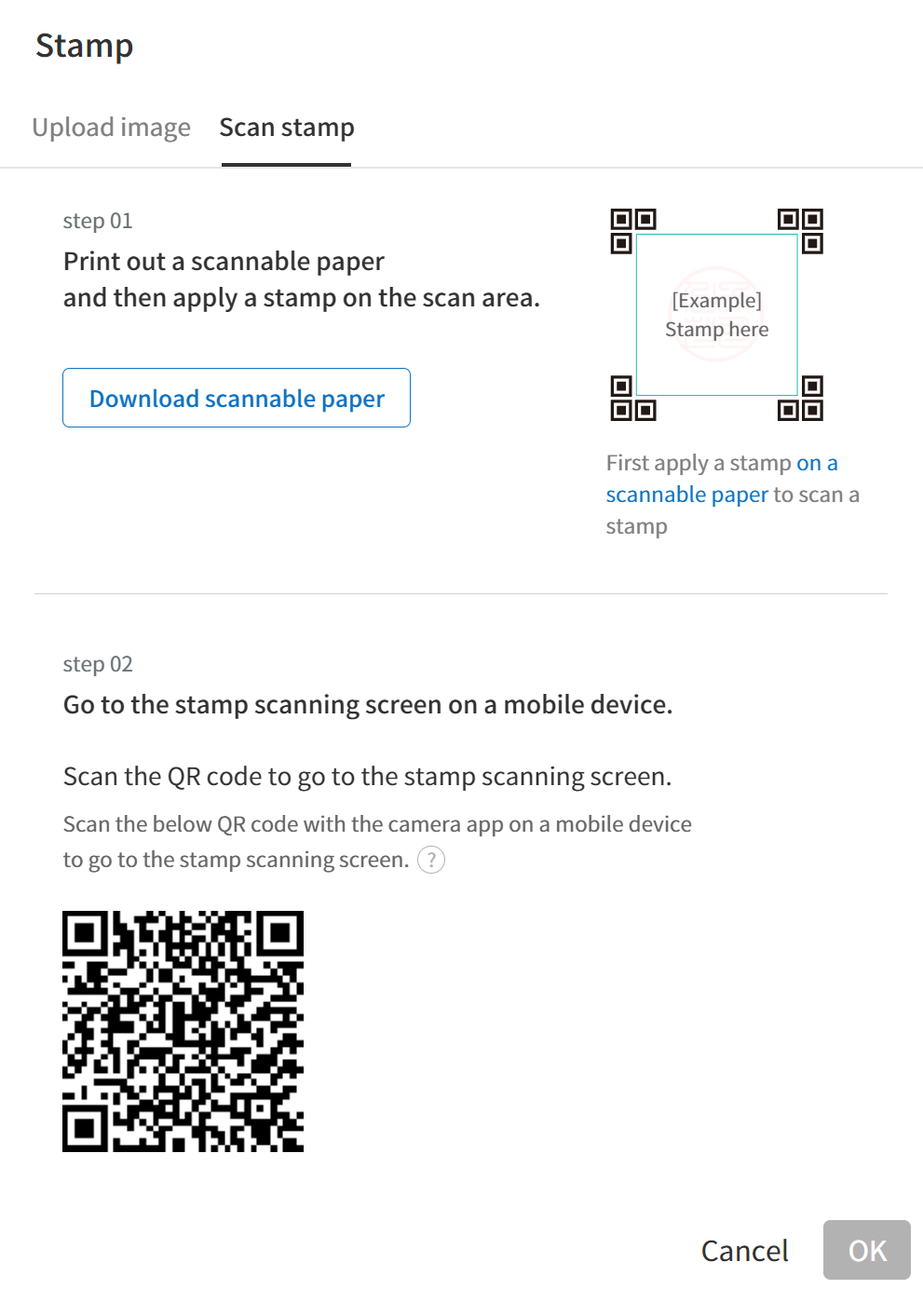
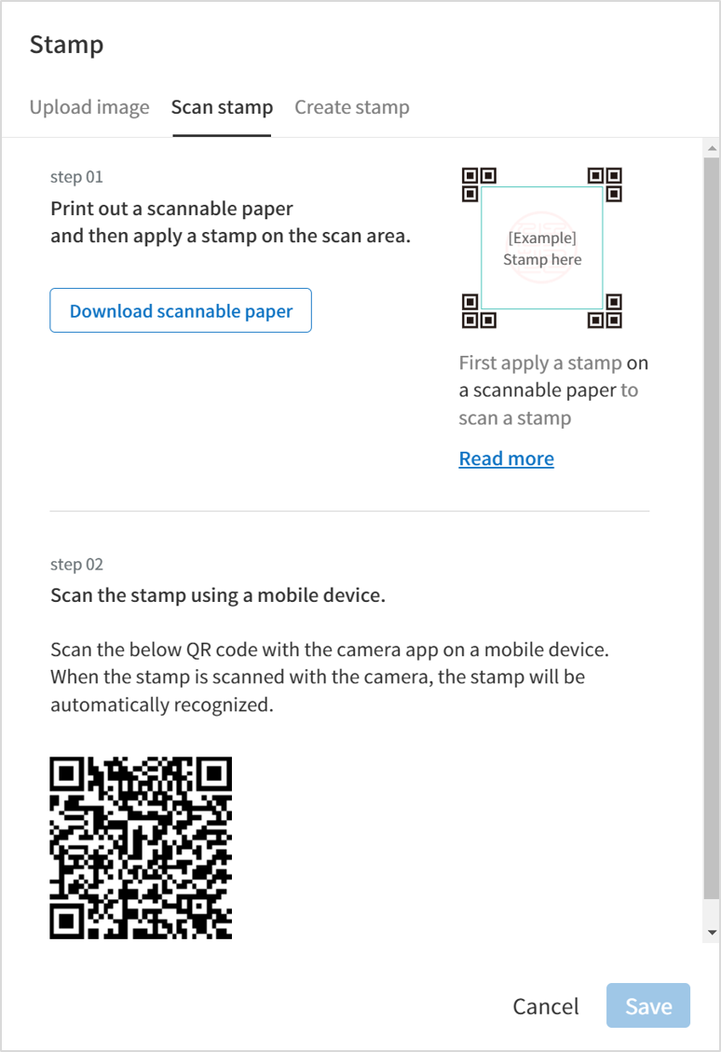
Jan 2024 update

diff --git a/docs/help/chapter8.html b/docs/help/chapter8.html
@@ -118,13 +118,13 @@
 <li><p><strong>Shared:</strong> If you share documents you own with other members or have access to a shared inbox, you can view the shared documents at-a-glance.</p></li>
 </ul>
 <hr class="docutils" />
+<p><strong>Manage documents</strong> and <strong>Manage bulk sent documents</strong>: These are inboxes for document managers and they can view documents in which they have permission.</p>
+<div class="admonition note">
+<p class="admonition-title">Note</p>
+<p>For information on granting the document manager permission refer to the <a class="reference external" href="chapter2.html#document-manager">Document manager</a> section. Note that the company administrawtor can view and manage all documents in the company.</p>
+</div>
 <ul class="simple">
-<li><p><strong>Manage documents</strong> and <strong>Manage bulk sent documents</strong>: These are inboxes for document managers and they can view documents in which they have permission.</p></li>
-</ul>
-<blockquote>
-<div><p><strong>Manage documents:</strong> Only members with the document manager permission can access this inbox. They can view all documents created from templates in which they are given permission to view.</p>
-</div></blockquote>
-<ul class="simple">
+<li><p><strong>Manage documents:</strong> Only members with the document manager permission can access this inbox. They can view all documents created from templates in which they are given permission to view.</p></li>
 <li><p><strong>Manage bulk sent documents:</strong> Only members with the document manager permission can access this inbox. They can view all documents bulk created from templates in which they are given permission to view.</p></li>
 </ul>
 <figure class="align-default">
@@ -133,7 +133,14 @@
 </section>
 <section id="documents-menu">
 <h2>Documents menu<a class="headerlink" href="#documents-menu" title="Link to this heading"></a></h2>
+<div class="admonition note">
+<p class="admonition-title">Note</p>
+<p>While the screen layout for the <strong>Action required, In progress, and Completed inboxes</strong> and the <strong>Manage documents</strong> page are almost identical, there are differences in the documents you see based on the document status or the permissions you have.</p>
+</div>
 <p>Each documents menu consists of the following five sections:</p>
+<figure class="align-default">
+<a class="reference internal image-reference" href="../_images/document_inbox_layout.png"><img alt="Document inbox layout" src="../_images/document_inbox_layout.png" style="width: 700px;" /></a>
+</figure>
 <ol class="arabic">
 <li><p><strong>Menu and home icon, and document menu name</strong></p>
 <p>You can go to another menu by clicking the menu icon (<a class="reference internal" href="../_images/menu_icon_2.png"><img alt="image1" src="../_images/menu_icon_2.png" style="width: 25px;" /></a>) or go to the dashboard by clicking the home icon (<a class="reference internal" href="../_images/home_icon_2.png"><img alt="image2" src="../_images/home_icon_2.png" style="width: 25px;" /></a>). You can also see the name of the documents menu you are currently viewing.</p>
@@ -144,7 +151,7 @@
 </li>
 <li><p><strong>Document list and actions</strong></p>
 <p>Up to 20 documents are listed per page and you can view the documents in other pages by clicking the page numbers at the bottom.</p>
-<p>The information of each document such as the document status, name, step, creator, created date, and document number is provided in columns in the document list. You can also change the column information displayed. Click the column icon (<a class="reference internal" href="../_images/column_icon.png"><img alt="image3" src="../_images/column_icon.png" style="width: 35px;" /></a>) displayed at the top right corner of the page, and then check the columns you want to display in the column check box.</p>
+<p>The information of each document such as the document status, name, step, creator, created date, and document number is provided in columns in the document list. You can also change the column information displayed. Click the column icon (<a class="reference internal" href="../_images/column_icon1.png"><img alt="image4" src="../_images/column_icon1.png" style="width: 35px;" /></a>) displayed at the top right corner of the page, and then check the columns you want to display in the column check box.</p>
 <p>You can also perform actions on a document such as reviewing, previewing, correcting, voiding, resending, and deleting a document.</p>
 </li>
 <li><p><strong>Document status and history</strong></p>
@@ -152,15 +159,18 @@
 <p>In the <strong>Document status</strong> tab, you can see what happens to a document in each step of the workflow.</p>
 <p>In the <strong>History</strong> tab, you can see the activities of the document creator and recipients from document creation to completion.</p>
 </li>
-<li><p><strong>The column selection icon, document download icon, and delete icon</strong></p>
-<p>Clicking the column selection icon (<a class="reference internal" href="../_images/column_icon.png"><img alt="image4" src="../_images/column_icon.png" style="width: 35px;" /></a>) displays the column types which you can check to select which columns will be displayed in the document list.</p>
-<p>Clicking the download icon (<a class="reference internal" href="../_images/download-icon.PNG"><img alt="image5" src="../_images/download-icon.PNG" style="width: 30px;" /></a>) allows to select the documents in the list you want to download. You can select multiple documents
-to download at once and choose the file type including the PDF of the completed documents, audit certificate, and CSV of selected fields.</p>
-<p>Note that the delete icon (<a class="reference internal" href="../_images/delete_icon1.png"><img alt="image6" src="../_images/delete_icon1.png" style="width: 30px;" /></a>) is disabled in the three document menus, but is enabled in the <strong>Manage documents</strong> menu.</p>
+<li><p><strong>The share, column, download, and delete icons</strong></p>
+<ul class="simple">
+<li><p>Share (<a class="reference internal" href="../_images/share_icon.png"><img alt="image20" src="../_images/share_icon.png" style="width: 25px;" /></a>): Clicking the share icon allows you to select a document you want to share in a shared folder.</p></li>
+<li><p>Column (<a class="reference internal" href="../_images/column_icon1.png"><img alt="image21" src="../_images/column_icon1.png" style="width: 35px;" /></a>): Clicking the column icon allows you to view the column types and select the columns in the document list that you want to be displayed.</p></li>
+<li><p>Download (<a class="reference internal" href="../_images/download_icon1.png"><img alt="image22" src="../_images/download_icon1.png" style="width: 90px;" /></a>): Clicking the icons allows you to download documents in PDF or CSV format and view the list of CSV files that have been generated.</p></li>
+</ul>
 <div class="admonition note">
 <p class="admonition-title">Note</p>
 <p><strong>How to delete documents</strong></p>
-<p>Documents can be deleted only in the <strong>Manage documents</strong> menu and you can only delete documents in which you have document manager permission. The company administrator or the template managers of a template can grant you document manager permission for all documents created from a template in <strong>Manage templates &gt; Template settings &gt; Set permissions &gt; Document management</strong> and selecting the groups/members you want to grant permission. Document manager permission can be set for each template. Members with this permission can open, delete, and download the documents (PDF, CSV) created from this template in the <strong>Manage documents</strong> menu.</p>
+<p>In document inboxes, the delete icon is disabled.</p>
+<p>Documents can be deleted only in the <strong>Manage documents</strong> menu and you can only delete documents in which you have document manager permission. The company administrator or the template managers of a template can grant you document manager permission for all documents created from a template in <strong>Manage templates &gt; Template settings &gt; Set permissions &gt; Document management</strong> and selecting the groups/members you want to grant permission.</p>
+<p>The document manager permission can be set for each template. Members with this permission can open, delete, and download the documents (PDF, CSV) created from this template in the <strong>Manage documents</strong> menu.</p>
 </div>
 </li>
 </ol>
@@ -431,7 +441,7 @@ values entered. E.g. Field name: fruit / Field type: keyword / Value1: strawberr
 <section id="export-to-csv-file">
 <h4>Export to CSV file<a class="headerlink" href="#export-to-csv-file" title="Link to this heading"></a></h4>
 <ol class="arabic">
-<li><p>Click the Export to CSV file icon (<a class="reference internal" href="../_images/column_icon.png"><img alt="image14" src="../_images/column_icon.png" style="width: 35px;" /></a>) in the <strong>Completed</strong> inbox or the <strong>Manage documents</strong> page.</p></li>
+<li><p>Click the Export to CSV file icon (<a class="reference internal" href="../_images/csv_download_icon.png"><img alt="image14" src="../_images/csv_download_icon.png" style="width: 25px;" /></a>) in the <strong>Completed</strong> inbox or the <strong>Manage documents</strong> page.</p></li>
 <li><p>Tick the check box to the left of the document(s) you want to download.</p></li>
 <li><p>Click the <strong>Export to CSV file</strong> button.</p></li>
 <li><p>Select the columns and range in the <strong>Export to CSV file</strong> pop-up displayed. To include all fields in all templates, select <strong>All results</strong>.</p></li>
@@ -485,7 +495,7 @@ You can cancel while the file is being created and the files that are created ca
 </section>
 <section id="document-menu-column-selection">
 <span id="document-column"></span><h3>Document Menu Column Selection<a class="headerlink" href="#document-menu-column-selection" title="Link to this heading"></a></h3>
-<p>If you click the column (<a class="reference internal" href="../_images/column_icon.png"><img alt="image14" src="../_images/column_icon.png" style="width: 35px;" /></a>) icon on the right side of the document list, you can select which column to be displayed on the list.</p>
+<p>If you click the column (<a class="reference internal" href="../_images/csv_download_icon.png"><img alt="image14" src="../_images/csv_download_icon.png" style="width: 25px;" /></a>) icon on the right side of the document list, you can select which column to be displayed on the list.</p>
 <figure class="align-default">
 <a class="reference internal image-reference" href="../_images/column_type.png"><img alt="Document column selection icon" src="../_images/column_type.png" style="width: 400px;" /></a>
 </figure>

diff --git a/docs/help/chapter2.html b/docs/help/chapter2.html
@@ -738,7 +738,7 @@ Select a mobile device you want to connect to and click the <strong>Send</strong
 <div class="admonition tip">
 <p class="admonition-title">Tip</p>
 <p>You can select the signature types that can be used when signing on documents.</p>
-<p>Go to <strong>Manage company</strong> &gt; <strong>Signature settings</strong> to select the signature types (Draw, Text) that can be used when signing on documents.</p>
+<p>In <strong>Manage company</strong> &gt; <strong>Signature settings</strong>, you can disable or enable the signing methods (such as signing with text and create stamp) that can be used when signing a signature or stamp.</p>
 <figure class="align-default">
 <a class="reference internal image-reference" href="../_images/signature-method.png"><img alt="Signature type settings" src="../_images/signature-method.png" style="width: 400px;" /></a>
 </figure>
@@ -746,7 +746,13 @@ Select a mobile device you want to connect to and click the <strong>Send</strong
 </section>
 <section id="adding-your-stamp">
 <span id="registerstamp"></span><h3><strong>Adding your stamp</strong><a class="headerlink" href="#adding-your-stamp" title="Link to this heading"></a></h3>
-<p>Some documents may require a seal or stamp rather than a signature or initial. In eformsign, there are three ways to add a stamp: creating a stgamp, uploading an image, and scanning a stamp.</p>
+<p>Some documents may require a seal or stamp rather than a signature or initial. In eformsign, there are three ways to add a stamp: creating a stamp, uploading an image, and scanning a stamp.</p>
+<div class="admonition important">
+<p class="admonition-title">Important</p>
+<p><strong>❗The stamps in My signature are not the same as company stamps.</strong></p>
+<p>For official stamps such as corporate seals, use them by adding them as company stamps.</p>
+<p>Once you adding one as a company stamp, you can grant permissions to members/groups, and can view its usage history.</p>
+</div>
 <section id="creating-a-stamp">
 <h4><strong>Creating a stamp</strong><a class="headerlink" href="#creating-a-stamp" title="Link to this heading"></a></h4>
 <ol class="arabic">
@@ -763,6 +769,14 @@ Select a mobile device you want to connect to and click the <strong>Send</strong
 </li>
 <li><p>Click the <strong>Edit</strong> or <strong>Delete</strong> button to edit or delete the added stamp.</p></li>
 </ol>
+<div class="admonition tip">
+<p class="admonition-title">Tip</p>
+<p><strong>Disabling the create stamp feature</strong></p>
+<p>To disable the <strong>Create stamp</strong> feature when applying a stamp in the signature field, disable the feature in <strong>Manage company &gt; Signature settings</strong>.</p>
+<figure class="align-default">
+<a class="reference internal image-reference" href="../_images/signature-method-createstamp.png"><img alt="Signature setings screen" src="../_images/signature-method-createstamp.png" style="width: 700px;" /></a>
+</figure>
+</div>
 </section>
 <section id="uploading-an-image">
 <h4><strong>Uploading an image</strong><a class="headerlink" href="#uploading-an-image" title="Link to this heading"></a></h4>
@@ -821,9 +835,9 @@ Select a mobile device you want to connect to and click the <strong>Send</strong
 <li><p><strong>Scanning a stamp on a mobile device</strong></p></li>
 </ul>
 <ol class="arabic">
-<li><p>Go to the <strong>My signature</strong> age -&gt; touch the <strong>Register</strong> button under <strong>Stamp</strong>-&gt; touch the <strong>Scan stamp</strong> tab on the pop-up displayed.</p>
+<li><p>Go to the <strong>My signature</strong> page -&gt; touch the <strong>Register</strong> button under <strong>Stamp</strong>-&gt; touch the <strong>Scan stamp</strong> tab on the pop-up displayed.</p>
 <figure class="align-default">
-<a class="reference internal image-reference" href="../_images/signature-stamp-scan-popup-mobile.png"><img alt="Scan stamp pop-up" src="../_images/signature-stamp-scan-popup-mobile.png" style="width: 300px;" /></a>
+<a class="reference internal image-reference" href="../_images/stamp-scan-popup-mobile-en.png"><img alt="Scan stamp pop-up" src="../_images/stamp-scan-popup-mobile-en.png" style="width: 300px;" /></a>
 </figure>
 </li>
 <li><p>Download and print out <strong>Scannable paper for stamps</strong>.</p></li>

diff --git a/docs/help/chapter5.html b/docs/help/chapter5.html
@@ -556,7 +556,17 @@ To delete a step, click <strong>-</strong> on the right side of the step button.
 <li><p><strong>Create documents from URL</strong>: Create a public link for external recipients (non-members) to review and sign documents directly via URL without the need to login to the eformsign service.</p></li>
 <li><p><strong>Approved domain IP</strong>: Set to allow creating documents only form approved domains or IPs.</p></li>
 <li><p><strong>Do not allow duplicate documents</strong>: Prevent the creation of duplicate documents and allows to select a field for determining whether a document is duplicated or not.</p></li>
+<li><p><strong>Block automated document generation by bots</strong>: Require users to tick the reCAPTCHA check box before submitting documents to prevent bots from auto-generating documents.</p></li>
 </ul>
+<div class="admonition note">
+<p class="admonition-title">Note</p>
+<p><strong>Block automated document generation by bots</strong></p>
+<p>By selecting this option, when a person submits a document after creating a document via URL, the reCAPTCHA feature is dispalyed on the Submit document pop-up. The person can submit the document after ticking the “I’m not a robot” check box.</p>
+<figure class="align-default">
+<a class="reference internal image-reference" href="../_images/URL-option-recaptcha.png"><img alt="reCAPTCHA" src="../_images/URL-option-recaptcha.png" style="width: 250px;" /></a>
+</figure>
+<p>❗Disabling this option allows bots to mass-generate documents from the document URL, resulting in excessive charges.</p>
+</div>
 </div></blockquote>
 <div class="admonition tip">
 <p class="admonition-title">Tip</p>

diff --git a/docs/help/chapter4.html b/docs/help/chapter4.html
@@ -246,7 +246,9 @@ configured in detail by using the <strong>Properties</strong> tab.</p>
 <li><p><a class="reference external" href="#select2">Radio</a><strong>:</strong> Selects an item among multiple items (can also be set to select multiple items).</p></li>
 <li><p><a class="reference external" href="#combo2">Combo</a><strong>:</strong> Displays a drop-down menu that allows you to select an item.</p></li>
 <li><p><a class="reference external" href="#toggle2">Toggle</a><strong>:</strong> Switches to another value if two or more values are entered.</p></li>
-<li><p><a class="reference external" href="#date2">Datetime</a><strong>:</strong> Enters a specific date.</p></li>
+</ul>
+<p>-  <a class="reference external" href="#date2">Datetime</a><strong>:</strong> Enters a specific date.</p>
+<ul class="simple">
 <li><p><a class="reference external" href="#numeric2">Numeric stepper</a><strong>:</strong> Enters a number.</p></li>
 <li><p><a class="reference external" href="#hyperlink">Hyperlink</a><strong>:</strong> Inserts a hyperlink.</p></li>
 <li><p><a class="reference external" href="#camera2">Camera</a><strong>:</strong> Takes a photo using a camera or selects a photo from an album in devices with a built-in

diff --git a/help/chapter8.rst b/help/chapter8.rst
@@ -26,9 +26,13 @@ Documents are stored in document menus (inboxes) according to their status. You 
 -------------------------
 
 
--  **Manage documents** and **Manage bulk sent documents**: These are inboxes for document managers and they can view documents in which they have permission.
+**Manage documents** and **Manage bulk sent documents**: These are inboxes for document managers and they can view documents in which they have permission.
 
-  **Manage documents:** Only members with the document manager permission can access this inbox. They can view all documents created from templates in which they are given permission to view.
+.. note::
+
+   For information on granting the document manager permission refer to the `Document manager <chapter2.html#document-manager>`_ section. Note that the company administrawtor can view and manage all documents in the company.
+
+-  **Manage documents:** Only members with the document manager permission can access this inbox. They can view all documents created from templates in which they are given permission to view.
 
 -  **Manage bulk sent documents:** Only members with the document manager permission can access this inbox. They can view all documents bulk created from templates in which they are given permission to view.
 
@@ -42,7 +46,17 @@ Documents are stored in document menus (inboxes) according to their status. You 
 Documents menu
 ---------------
 
+.. note::
+
+   While the screen layout for the **Action required, In progress, and Completed inboxes** and the **Manage documents** page are almost identical, there are differences in the documents you see based on the document status or the permissions you have.
+
+
 Each documents menu consists of the following five sections:
+
+.. figure:: resources/document_inbox_layout.png
+   :alt: Document inbox layout
+   :width: 700px
+
 
 1. **Menu and home icon, and document menu name**
 
@@ -60,7 +74,7 @@ Each documents menu consists of the following five sections:
 
    Up to 20 documents are listed per page and you can view the documents in other pages by clicking the page numbers at the bottom.
 
-   The information of each document such as the document status, name, step, creator, created date, and document number is provided in columns in the document list. You can also change the column information displayed. Click the column icon (|image3|) displayed at the top right corner of the page, and then check the columns you want to display in the column check box.
+   The information of each document such as the document status, name, step, creator, created date, and document number is provided in columns in the document list. You can also change the column information displayed. Click the column icon (|image4|) displayed at the top right corner of the page, and then check the columns you want to display in the column check box.
 
    You can also perform actions on a document such as reviewing, previewing, correcting, voiding, resending, and deleting a document.
 
@@ -74,20 +88,22 @@ Each documents menu consists of the following five sections:
    In the **History** tab, you can see the activities of the document creator and recipients from document creation to completion.
 
 
-5. **The column selection icon, document download icon, and delete icon** 
+5. **The share, column, download, and delete icons** 
 
-   Clicking the column selection icon (|image4|) displays the column types which you can check to select which columns will be displayed in the document list.
+   - Share (|image20|): Clicking the share icon allows you to select a document you want to share in a shared folder.
 
-   Clicking the download icon (|image5|) allows to select the documents in the list you want to download. You can select multiple documents
-   to download at once and choose the file type including the PDF of the completed documents, audit certificate, and CSV of selected fields.
+   - Column (|image21|): Clicking the column icon allows you to view the column types and select the columns in the document list that you want to be displayed.
 
-   Note that the delete icon (|image6|) is disabled in the three document menus, but is enabled in the **Manage documents** menu.
-
+   - Download (|image22|): Clicking the icons allows you to download documents in PDF or CSV format and view the list of CSV files that have been generated.
    .. note::
 
       **How to delete documents**
 
-      Documents can be deleted only in the **Manage documents** menu and you can only delete documents in which you have document manager permission. The company administrator or the template managers of a template can grant you document manager permission for all documents created from a template in **Manage templates > Template settings > Set permissions > Document management** and selecting the groups/members you want to grant permission. Document manager permission can be set for each template. Members with this permission can open, delete, and download the documents (PDF, CSV) created from this template in the **Manage documents** menu.
+      In document inboxes, the delete icon is disabled.
+
+      Documents can be deleted only in the **Manage documents** menu and you can only delete documents in which you have document manager permission. The company administrator or the template managers of a template can grant you document manager permission for all documents created from a template in **Manage templates > Template settings > Set permissions > Document management** and selecting the groups/members you want to grant permission. 
+
+      The document manager permission can be set for each template. Members with this permission can open, delete, and download the documents (PDF, CSV) created from this template in the **Manage documents** menu.
 
 .. _category:
 
@@ -574,7 +590,7 @@ If you have a document you want to added a shared folder, you can go to the Acti
    :width: 25px
 .. |image3| image:: resources/column_icon.png
    :width: 35px
-.. |image4| image:: resources/column_icon.png
+.. |image4| image:: resources/column_icon1.png
    :width: 35px
 .. |image5| image:: resources/download-icon.PNG
    :width: 30px
@@ -592,11 +608,17 @@ If you have a document you want to added a shared folder, you can go to the Acti
    :width: 50px
 .. |image12| image:: resources/download_icon.png
 .. |image13| image:: resources/delete_icon1.png
-.. |image14| image:: resources/column_icon.png
-   :width: 35px
+.. |image14| image:: resources/csv_download_icon.png
+   :width: 25px
 .. |image15| image:: resources/en-draftbox-menu.png
    :width: 700px
 .. |image16| image:: resources/draftbox-documentlist.png
    :width: 700px
 .. |image17| image:: resources/csv_file_list_icon.png
    :width: 20px
+.. |image20| image:: resources/share_icon.png
+   :width: 25px
+.. |image21| image:: resources/column_icon1.png
+   :width: 35px
+.. |image22| image:: resources/download_icon1.png
+   :width: 90px

diff --git a/help/chapter2.rst b/help/chapter2.rst
@@ -774,7 +774,7 @@ If you add your signature, initial, and stamp in the **My signature** menu, you 
 
    You can select the signature types that can be used when signing on documents.
 
-   Go to **Manage company** > **Signature settings** to select the signature types (Draw, Text) that can be used when signing on documents.
+   In **Manage company** > **Signature settings**, you can disable or enable the signing methods (such as signing with text and create stamp) that can be used when signing a signature or stamp.
 
    .. figure:: resources/signature-method.png
       :alt: Signature type settings
@@ -786,9 +786,15 @@ If you add your signature, initial, and stamp in the **My signature** menu, you 
 **Adding your stamp**
 ~~~~~~~~~~~~~~~~~~~~~~~~~~~~~~
 
-Some documents may require a seal or stamp rather than a signature or initial. In eformsign, there are three ways to add a stamp: creating a stgamp, uploading an image, and scanning a stamp.
+Some documents may require a seal or stamp rather than a signature or initial. In eformsign, there are three ways to add a stamp: creating a stamp, uploading an image, and scanning a stamp.
 
+.. important::
 
+   **❗The stamps in My signature are not the same as company stamps.** 
+
+   For official stamps such as corporate seals, use them by adding them as company stamps.
+
+   Once you adding one as a company stamp, you can grant permissions to members/groups, and can view its usage history.
 
 **Creating a stamp**
 -----------------------------
@@ -812,6 +818,16 @@ Some documents may require a seal or stamp rather than a signature or initial. I
 
 4. Click the **Edit** or **Delete** button to edit or delete the added stamp.
 
+.. tip::
+
+   **Disabling the create stamp feature**
+
+   To disable the **Create stamp** feature when applying a stamp in the signature field, disable the feature in **Manage company > Signature settings**.
+
+
+   .. figure:: resources/signature-method-createstamp.png
+      :alt: Signature setings screen
+      :width: 700px
 
 
 **Uploading an image**
@@ -889,9 +905,9 @@ Some documents may require a seal or stamp rather than a signature or initial. I
 
 
 
-1. Go to the **My signature**\  age -> touch the **Register**\  button under **Stamp**\ -> touch the **Scan stamp** tab on the pop-up displayed.
+1. Go to the **My signature**\  page -> touch the **Register**\  button under **Stamp**\ -> touch the **Scan stamp** tab on the pop-up displayed.
 
-   .. figure:: resources/signature-stamp-scan-popup-mobile.png
+   .. figure:: resources/stamp-scan-popup-mobile-en.png
       :alt: Scan stamp pop-up
       :width: 300px
 

diff --git a/help/chapter5.rst b/help/chapter5.rst
@@ -600,6 +600,20 @@ You can click a step to set the details such as **Properties** for each workflow
 
    -  **Do not allow duplicate documents**: Prevent the creation of duplicate documents and allows to select a field for determining whether a document is duplicated or not.
 
+   -  **Block automated document generation by bots**: Require users to tick the reCAPTCHA check box before submitting documents to prevent bots from auto-generating documents.
+
+   .. note::
+
+      **Block automated document generation by bots**
+
+      By selecting this option, when a person submits a document after creating a document via URL, the reCAPTCHA feature is dispalyed on the Submit document pop-up. The person can submit the document after ticking the "I'm not a robot" check box. 
+
+      .. figure:: resources/URL-option-recaptcha.png
+         :alt: reCAPTCHA
+         :width: 250px
+
+      ❗Disabling this option allows bots to mass-generate documents from the document URL, resulting in excessive charges.
+
 
 .. tip::
 

diff --git a/help/chapter4.rst b/help/chapter4.rst
@@ -177,7 +177,7 @@ The fields provided in eformsign are as follows:
 -  `Combo <#combo2>`__\ **:** Displays a drop-down menu that allows you to select an item.
 
 -  `Toggle <#toggle2>`__\ **:** Switches to another value if two or more values are entered.
-
+\
 -  `Datetime <#date2>`__\ **:** Enters a specific date.
 
 -  `Numeric stepper <#numeric2>`__\ **:** Enters a number.
